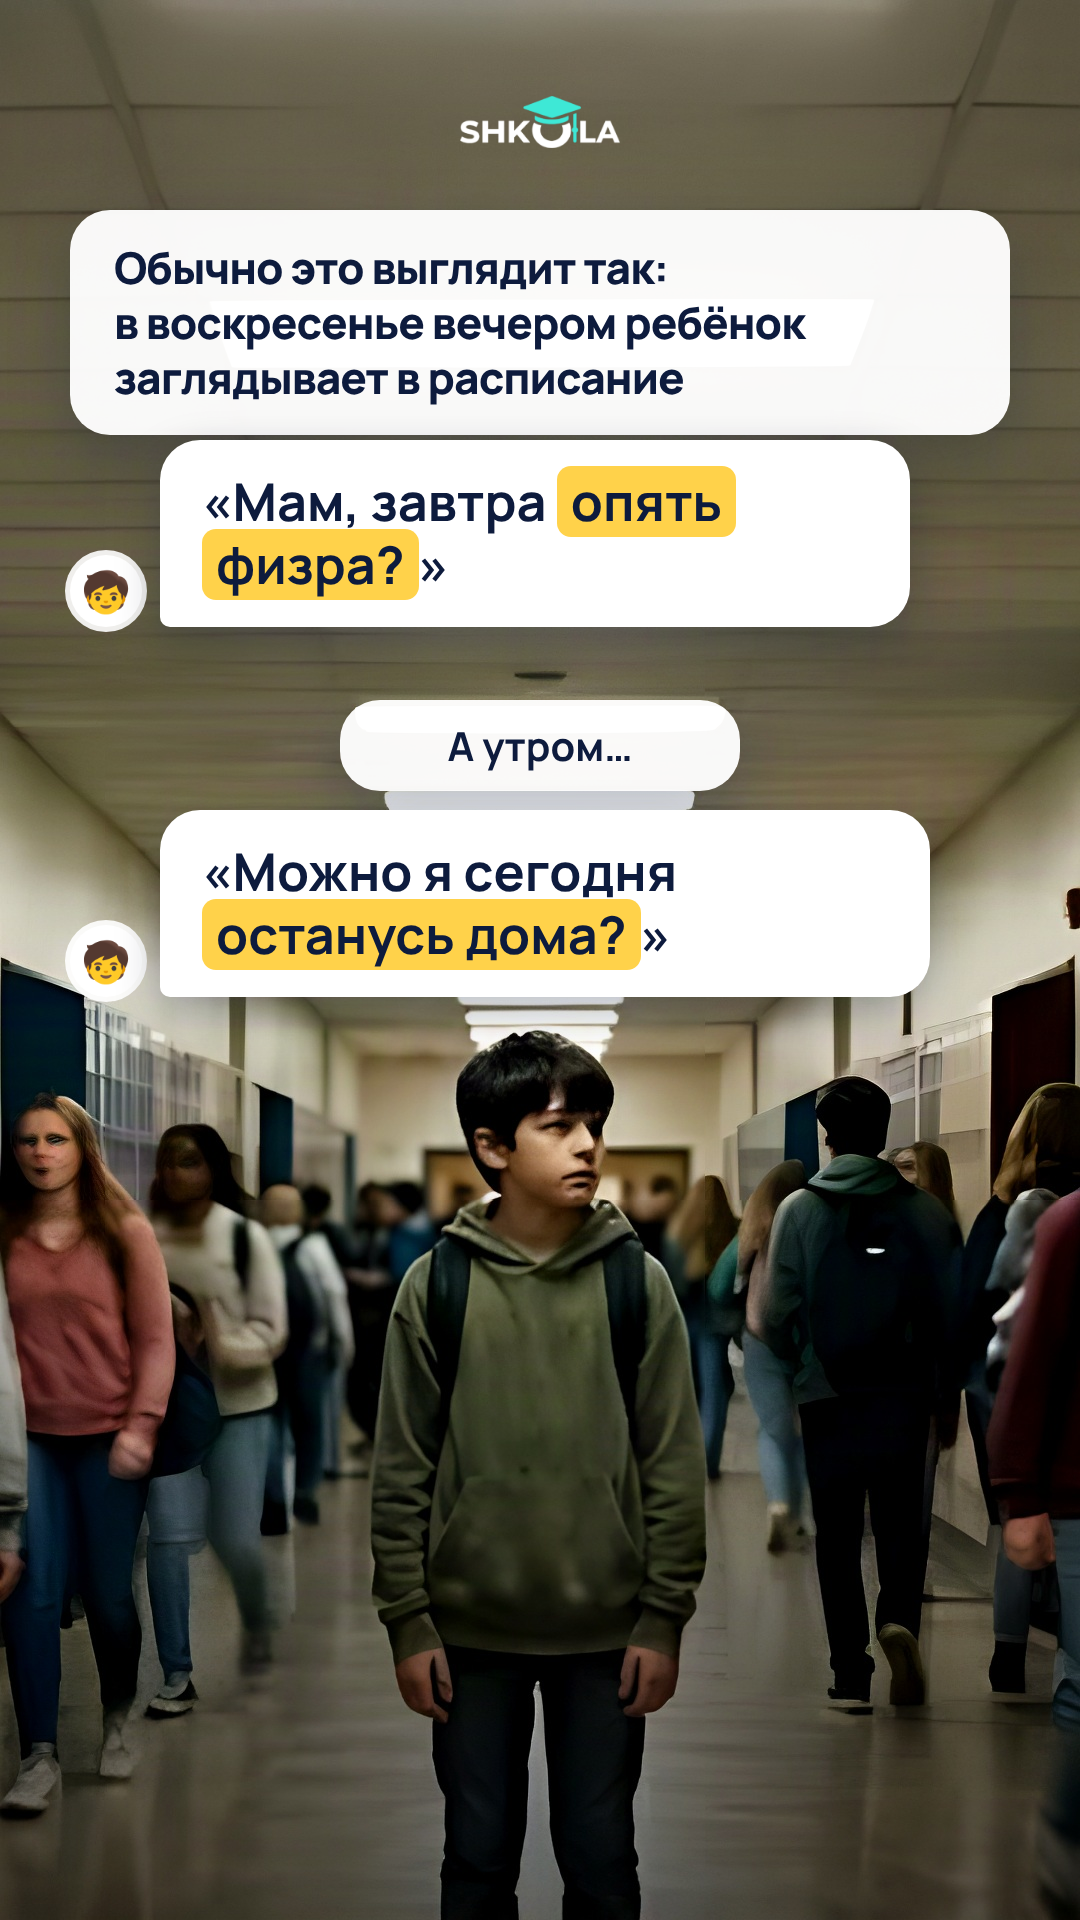
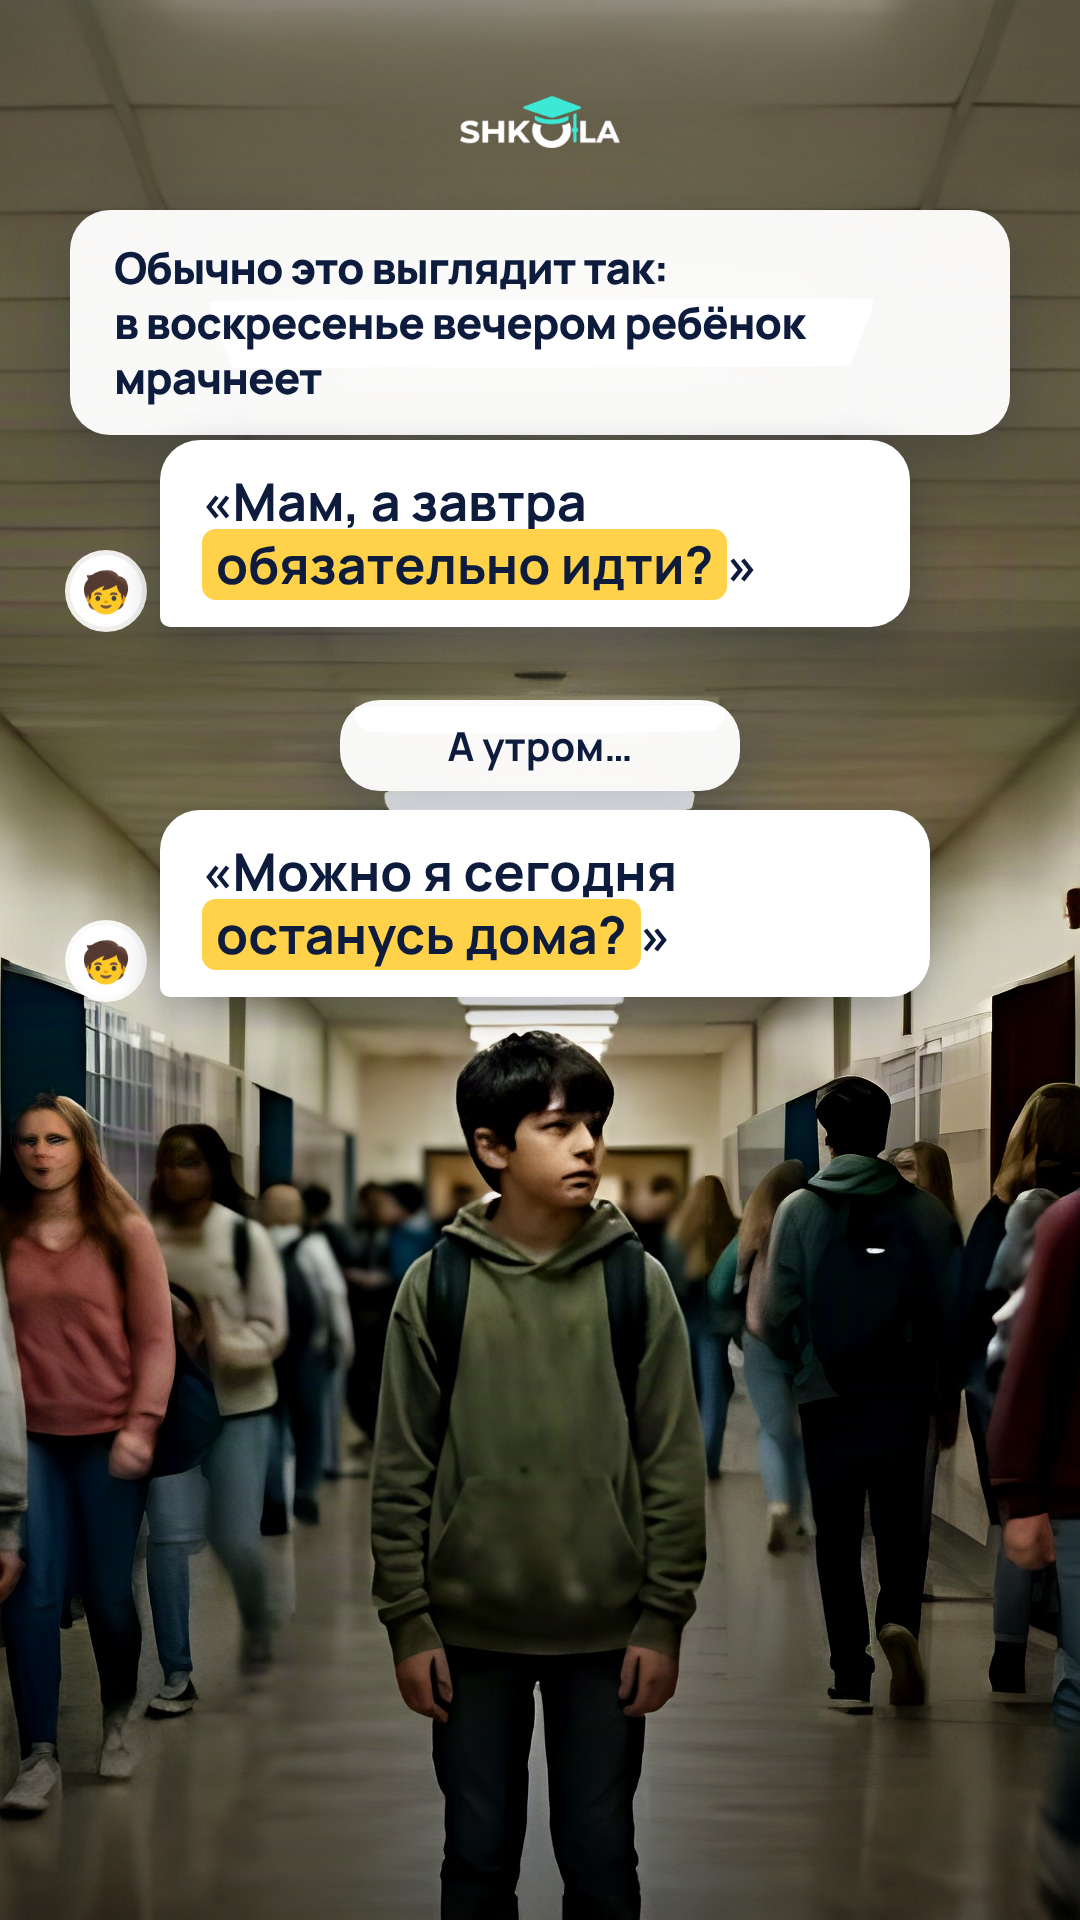
Stories: generalized cause (not only PE)
Claude-Session: https://claude.ai/code/session_01EUhV7x1P3xabAX3GuSkHDE

Changed region(s): [[0.0917, 0.1875, 0.7028, 0.3125]]

diff --git a/stories-fizra/gen_fin.js b/stories-fizra/gen_fin.js
@@ -20,19 +20,19 @@ const S={
 <div class=card style="top:210px;padding:40px 46px"><div class=big style="font-size:58px;line-height:1.16">Сколько раз вы слышали от&nbsp;ребёнка: <span class=hl>«Можно я сегодня останусь дома?»</span></div></div>`,
 
 1:`<body class=blue><div class=logo><img src="logo_w.png"></div>
-<div class=card style="top:210px;padding:30px 44px"><div class=big style="font-size:44px;line-height:1.25">Обычно это выглядит так: в&nbsp;воскресенье вечером ребёнок заглядывает в&nbsp;расписание</div></div>
-<div class=row style="top:440px;left:70px;right:170px"><div class=av>🧒</div><div class=bub>«Мам, завтра <span class=hl>опять физра?</span>»</div></div>
+<div class=card style="top:210px;padding:30px 44px"><div class=big style="font-size:44px;line-height:1.25">Обычно это выглядит так: в&nbsp;воскресенье вечером ребёнок мрачнеет</div></div>
+<div class=row style="top:440px;left:70px;right:170px"><div class=av>🧒</div><div class=bub>«Мам, а&nbsp;завтра <span class=hl>обязательно идти?</span>»</div></div>
 <div class=card style="top:700px;padding:18px 40px;left:340px;right:340px;text-align:center"><div style="font:700 40px Manrope">А утром…</div></div>
 <div class=row style="top:810px;left:70px;right:150px"><div class=av>🧒</div><div class=bub>«Можно я сегодня <span class=hl>останусь дома?</span>»</div></div>`,
 2:`<body style="background:#ffd24a"><div class=logo><img src="logo.png"></div>
-<style>.grid{position:absolute;left:70px;right:70px;top:330px}.d{display:flex;align-items:center;gap:24px;background:#fff;border-radius:36px;padding:28px 36px;margin-bottom:18px;box-shadow:0 12px 34px rgba(40,80,150,.16);font:700 44px Manrope}.d i{font-style:normal;width:150px;color:#7a8aa5;font-size:34px}.d.f{background:#2457c4;color:#fff}.d.f i{color:#cfe0ff}.d.f b{margin-left:auto;font-size:40px}</style>
-<div class=big style="position:absolute;left:80px;right:80px;top:170px;font-size:64px">В четверг всё повторяется</div>
-<div class=grid style="top:360px"><div class="d f"><i>Пн</i>Физра 🏃<b>«Останусь дома»</b></div><div class=d><i>Вт</i>Математика · Русский</div><div class=d><i>Ср</i>Литература · Английский</div><div class="d f"><i>Чт</i>Физра 🏃<b>«Останусь дома»</b></div><div class=d><i>Пт</i>История · Музыка</div></div>
-<div class=card style="top:1230px;background:#2457c4;color:#fff;font:800 56px/1.2 Manrope"><span class=hl>Именно в дни, когда в расписании физра</span><div style="font:500 38px/1.35 Manrope;margin-top:24px">Вы замечаете, что он просится остаться дома</div></div>`,
+<style>.it{display:flex;align-items:center;gap:26px;background:#fff;border-radius:36px;padding:34px 40px;margin-bottom:22px;box-shadow:0 12px 34px rgba(120,80,0,.18);font:700 46px/1.2 Manrope}.it b{flex:none;width:76px;height:76px;border-radius:50%;background:#2457c4;color:#fff;font:800 40px/76px Manrope;text-align:center}</style>
+<div class=big style="position:absolute;left:80px;right:80px;top:200px;font-size:70px">Приглядитесь, когда это случается</div>
+<div style="position:absolute;left:70px;right:70px;top:520px"><div class=it><b>1</b>В какие дни</div><div class=it><b>2</b>Перед каким уроком или событием</div><div class=it><b>3</b>После чего: перемена, группа, конкретный человек</div></div>
+<div class=card style="top:1230px;background:#2457c4;color:#fff;font:800 56px/1.2 Manrope"><span class=hl>Часто за этим стоит не лень, а конкретная ситуация</span></div>`,
 3:`<body class=blue><div class=logo><img src="logo_w.png"></div>
 <div class=card style="top:210px;padding:30px 44px"><div class=big style="font-size:46px">Попробуйте начать с&nbsp;того, что <span class=hl>заметили</span></div></div>
-<div class=row style="top:1010px;left:60px;right:200px"><div class=av style="font-size:36px">👩</div><div class=bub style="font-size:38px">«Слушай, ты чаще просишь остаться дома, когда у&nbsp;тебя физра. Как у&nbsp;тебя там дела?»</div></div>
-<div class=row r style="top:1260px;left:160px;right:50px"><div class=av>🧒</div><div class=bub style="font-size:42px">«Сама физра нормальная. Я&nbsp;<span style="background:#fff;padding:0 10px;border-radius:12px">в раздевалку идти не хочу</span>»</div></div>
+<div class=row style="top:1010px;left:60px;right:200px"><div class=av style="font-size:36px">👩</div><div class=bub style="font-size:38px">«Слушай, ты чаще просишь остаться дома по&nbsp;четвергам. Как у&nbsp;тебя там дела?»</div></div>
+<div class=row r style="top:1260px;left:160px;right:50px"><div class=av>🧒</div><div class=bub style="font-size:42px">«Там <span style="background:#fff;padding:0 10px;border-radius:12px">со&nbsp;мной не очень общаются</span>»</div></div>
 <div class=card style="top:1560px;padding:22px 40px;text-align:center"><div style="font:800 44px/1.25 Manrope">Теперь есть о&nbsp;чём поговорить конкретнее</div></div>`,
 4:`<body class=blue><div class=logo><img src="logo_w.png"></div>
 <div class=card style="top:250px;padding:40px 46px"><div class=big style="font-size:52px">Что делать, если <span class=hl>«можно я не пойду?»</span> звучит всё чаще?</div></div>
